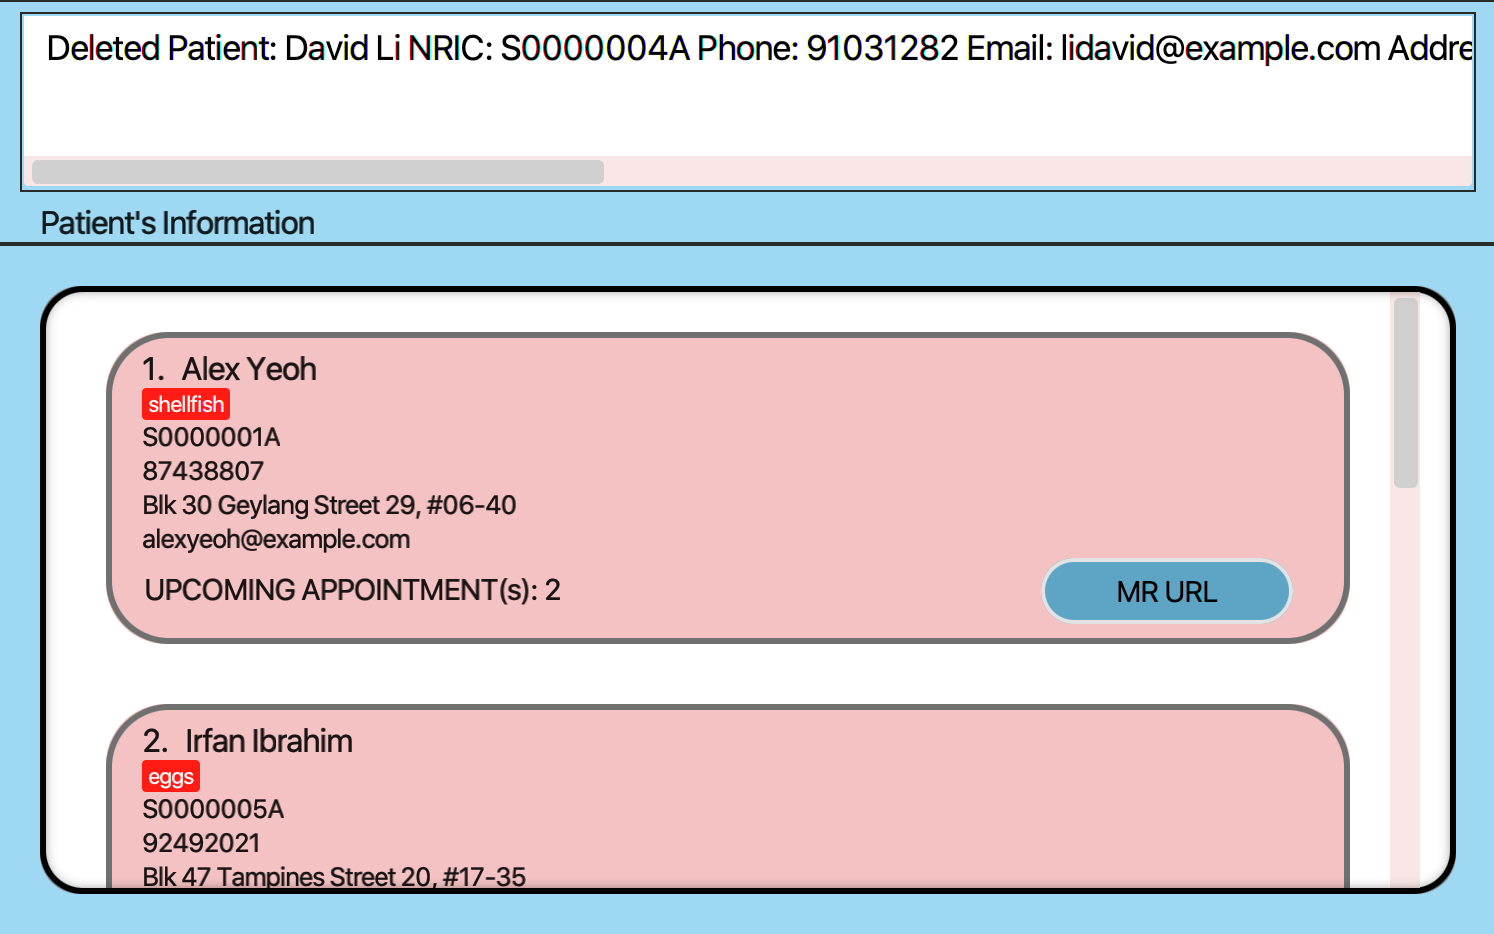
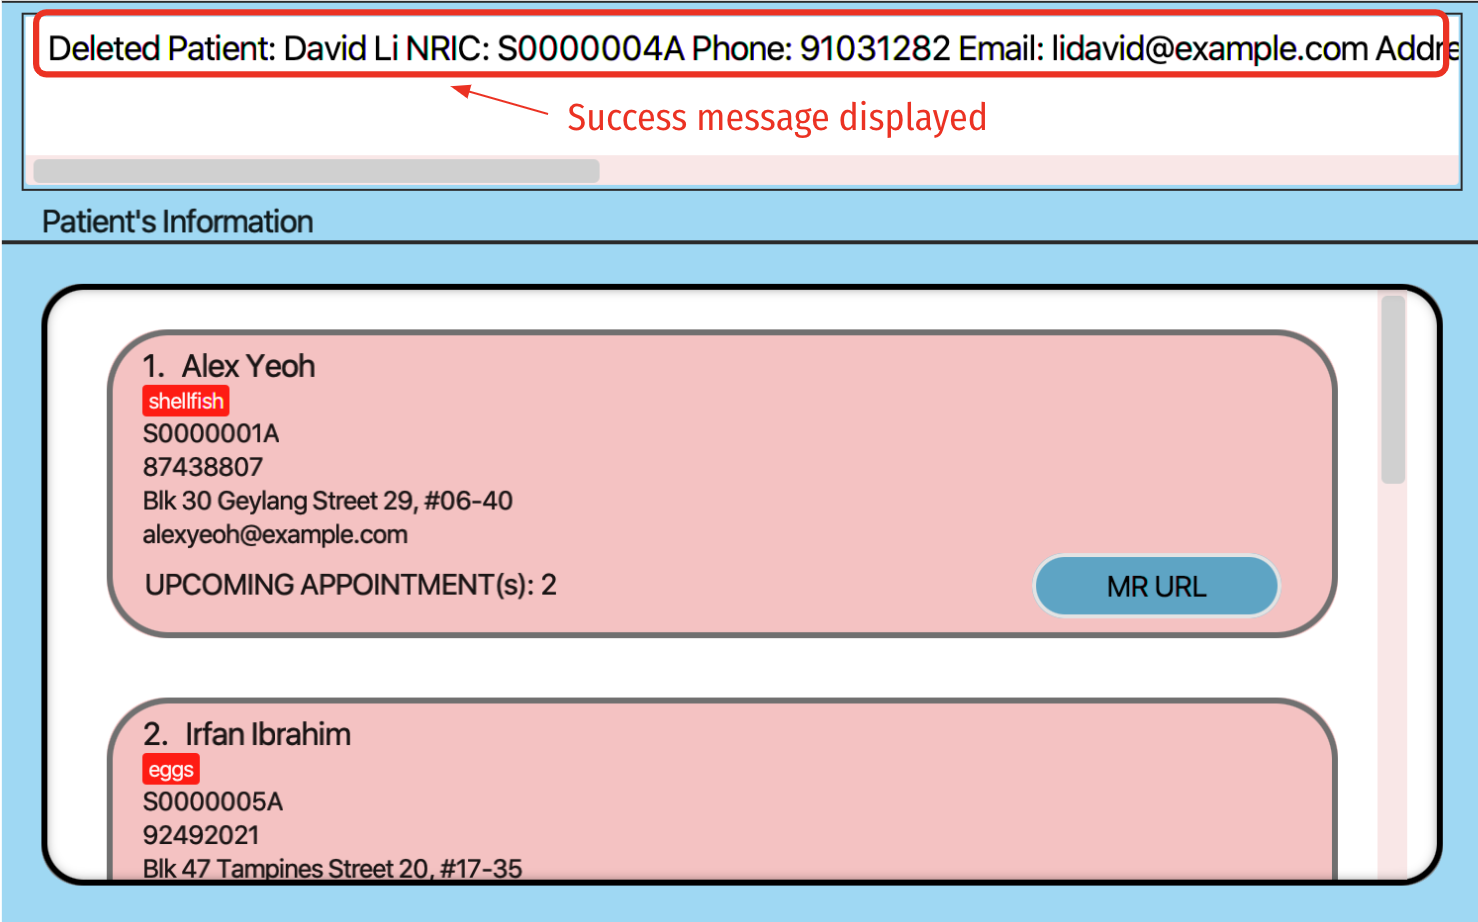
update UG

diff --git a/docs/UserGuide.md b/docs/UserGuide.md
@@ -191,17 +191,18 @@ This command allows you to edit an existing patient in **Hospify**, it is especi
 
 To use this command, simply type in `edit` and the fields of the patient you want to edit, as specified by the format below.
 
-Format: `edit INDEX [n/NAME] [p/PHONE] [e/EMAIL] [a/ADDRESS] [mr/MEDICAL_RECORD_URL] [t/ALLERGIES]…`
+Format: `edit INDEX [n/NAME] [ic/NRIC] [p/PHONE] [e/EMAIL] [a/ADDRESS] [mr/MEDICAL_RECORD_URL] [t/ALLERGIES]…`
 
 <div markdown="block" class="alert alert-info">
 
 **:information_source: Note:**<br>
-* The meaning of each field in the above format is the same as in the "add patient" command, you can refer to the [**"add patient" command**](#32-adding-a-patient-add-by-cedric-lim-jun-wei).
-For your convenience, explanations for each filed is also provided below.
+* The meaning of each field in the above format is the same as in the `add` command, you can refer to the [**`add` command**](#32-adding-a-patient-add-by-cedric-lim-jun-wei).
+For your convenience, specifications for each filed is also provided below.
 
 </div>
 
-* The `INDEX` refers to the index number of patient as shown in the displayed patient list. The index **must be a positive integer**, such as 1, 2, 3, …
+* The `INDEX` refers to the index number of patient as shown in the displayed patient list, and it **must be a positive integer**, such as 1, 2, 3, …
+* The `NRIC` field should start with an alphabet, followed by 7 digits, before ending with another alphabet.
 * The `NAME` and `ALLERGIES` fields should only contain alphanumeric characters, and they have an upper limit of 100 characters. 
 * The `PHONE_NUMBER` field should contain a number that is between 3 and 15 digits (inclusive) long.
 * The `EMAIL` field should contain a valid email address (to find more information on email validation, please check the [Command Summary](#5-command-summary)).
@@ -220,11 +221,11 @@ For your convenience, explanations for each filed is also provided below.
 
 </div>
 
-To help you better understand how to use "edit" command, here are some examples below.
+To help you better understand how to use `edit` command, here are some examples below.
 
 Examples:
-*  `edit 1 p/91234567 e/johndoe@example.com` Edits the phone number and email address of the 1st patient to be `91234567` and `johndoe@example.com` respectively.
-*  `edit 2 n/Betsy Crower t/` Edits the name of the 2nd patient to be `Betsy Crower` and clears all existing allergies.
+*  `edit 1 p/91234567 e/johndoe@example.com` edits the phone number and email address of the 1st patient to be `91234567` and `johndoe@example.com` respectively.
+*  `edit 2 n/Betsy Crower t/` edits the name of the 2nd patient to be `Betsy Crower` and clears all existing allergies.
 <div markdown="block" class="alert alert-info">
 
 **:bulb: Tip:**<br>
@@ -272,26 +273,31 @@ Examples:
 
 ### 3.6 Deleting a patient: `delete` (by Cao Qin)
 
-Deletes the specified patient from **Hospify**.
+This command allows you to delete a specific patient from **Hospify**. As a converse of `add` command, `delete` command might 
+be useful when you find a patient's information will no longer be used in the system and want to remove it. 
+
+To use this command, simply type in `delete` and the `INDEX` or `NRIC` of the patient you want to delete, as specified in the format below. 
 
 Format: `delete INDEX` or `delete NRIC`
 
 <div markdown="block" class="alert alert-info">
 
-**:information_source: About the format of `delete` command:**<br>
-* Deletes the patient at the specified `INDEX` or `NRIC`
-* The `INDEX` refers to the index number shown in the displayed patient list.
-* The `INDEX` **must be a positive integer** 1, 2, 3, …
-* The `NRIC` refers to the `NRIC` of the patient to be deleted.
+**:information_source: Notes about `delete` command:**<br>
+* `delete` command deletes the patient at the specified `INDEX` or `NRIC`.
+* The `INDEX` refers to the index number of the patient as shown in the displayed patient list, and it must be a **positive integer**, such as 1, 2, 3, …
+* The `NRIC` refers to the `NRIC` field of the patient to be deleted. It should start with an alphabet, followed by 7 digits, before ending with another alphabet.
 * The `NRIC` entered is **case-insensitive**. e.g. `s1234567a` will match `S1234567A`
 * Only full `NRIC`s will be matched e.g. `S12345` will **not** match `S1234567A`
+* When a patient is successfully deleted from **Hospify**, a success message will appear in the message box, and the deleted patient will disappear in the displayed patient list.
 </div>
+
+To help you get more familiar with the `delete` command, here are some examples of using this command, as shown below.
 
 Examples:
 
 scenario 1 (delete by index):
 
-* `list`(shown in Figure 7.1 below) followed by `delete 2`(shown in Figure 7.2 below) deletes the 2nd patient in **Hospify**.
+* `list`(shown in Figure 7.1 below) followed by `delete 2`(shown in Figure 7.2 below) deletes the 2nd patient in **Hospify**'s patient list.
 
   `list` command shows all the patients and their corresponding index.
   ![result for 'list'](images/listResult.png)
@@ -584,12 +590,17 @@ at **hospify_enquiry@gmail.com** to notify the tech team if it does not open on 
 
 ### 3.15 Clearing all entries: `clear` (by Cao Qin)
 
-This command helps clear all patients' information from **Hospify**.
+This command allows you to clear all patients' information from **Hospify**. It is very useful when you want to clear all the sample data in the system and start using **Hospify** in youe own clinic!
+
+To use this command, simply type in `clear`, and all the patients' information will be removed from the system.
 
 Format: `clear`
 
+To help you understand this command, here is an example of using it, as shown below.
+
 Example: 
-execute `clear`(shown in Figure 14.5 below) command will empty the patients' list (shown in Figure 14.5 below).
+execute `clear`(shown in Figure 16.1 below) command will empty the patient list (shown in Figure 16.2 below).
+
 ![clear command](images/clear%20command.png)
 Figure 16.1 clear command
 
